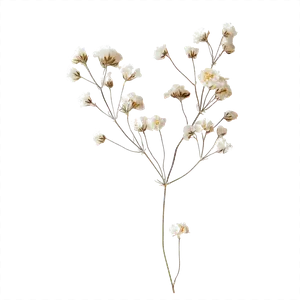
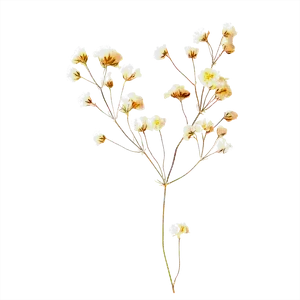
feat(design): usa mais imagens de flores já preparadas, não só a do Registrar
Só o specimen-pink aparecia (no card de Registrar); os outros 3
assets (tulip, leaf, specimen-cream) estavam no repo sem uso. Agora
cada tela de entrada de dado ganha um acento diferente: tulip em
Entradas, leaf em Investimentos, specimen-cream em Importar extrato —
mesmo tratamento visual do specimen-pink (canto superior direito,
rotacionado, drop-shadow), ajustado por aspect ratio pra não vazar do
card.

specimen-cream também foi realçado (saturação/contraste) porque a
cor original era quase idêntica ao fundo de papel e ficava invisível.

diff --git a/src/views/ImportarView.tsx b/src/views/ImportarView.tsx
@@ -5,6 +5,7 @@ import { findLikelyDuplicate } from "../model/statementImport/duplicates";
 import { CATEGORIES, PAYMENTS } from "../shared/catalog";
 import { formatBRL } from "../shared/format";
 import type { Expense, NewExpense, Payment } from "../model/types";
+import specimenCream from "../assets/specimen-cream.webp";
 
 interface ReviewRow extends ParsedRow {
   include: boolean;
@@ -80,9 +81,15 @@ export default function ImportarView({ existingExpenses, onImport, onDone }: Pro
 
       {!rows && (
         <section
-          className="rise flex flex-col items-center gap-3 rounded-card border border-dashed border-accent/50 bg-accent-soft/40 px-6 py-10 text-center"
+          className="rise relative flex flex-col items-center gap-3 overflow-hidden rounded-card border border-dashed border-accent/50 bg-accent-soft/40 px-6 py-10 text-center"
           style={{ animationDelay: "90ms" }}
         >
+          <img
+            src={specimenCream}
+            alt=""
+            aria-hidden="true"
+            className="pointer-events-none absolute -top-8 -right-4 w-[110px] rotate-[16deg] opacity-90 drop-shadow-[0_10px_14px_rgba(36,55,31,.22)]"
+          />
           <Upload size={26} strokeWidth={1.8} className="text-accent-ink" />
           <p className="text-[14px] text-ink-soft">
             Fatura do cartão ou extrato da conta, exportado em CSV.

diff --git a/src/views/InvestimentosView.tsx b/src/views/InvestimentosView.tsx
@@ -3,6 +3,7 @@ import { Plus, Trash2, Pencil, Check, X, Sprout } from "lucide-react";
 import AmountInput from "../components/AmountInput";
 import { formatBRL } from "../shared/format";
 import type { Investment, NewInvestment } from "../model/types";
+import leaf from "../assets/leaf.webp";
 
 interface IForm {
   id?: string;
@@ -61,7 +62,13 @@ export default function InvestimentosView({ investments, onAdd, onEdit, onRemove
       </div>
 
       {form ? (
-        <section className="rise rounded-card border border-line bg-surface p-4 shadow-card">
+        <section className="rise relative rounded-card border border-line bg-surface p-4 shadow-card">
+          <img
+            src={leaf}
+            alt=""
+            aria-hidden="true"
+            className="pointer-events-none absolute -top-4 right-3 h-[68px] w-auto rotate-[14deg] drop-shadow-[0_10px_14px_rgba(36,55,31,.28)]"
+          />
           <p className="mb-2 ml-0.5 font-display text-[11px] font-semibold uppercase tracking-[0.08em] text-muted">
             {form.id ? "Editar posição" : "Nova posição"}
           </p>

diff --git a/src/views/EntradasView.tsx b/src/views/EntradasView.tsx
@@ -3,6 +3,7 @@ import { Plus, Trash2, Check, X, TrendingUp } from "lucide-react";
 import AmountInput from "../components/AmountInput";
 import { formatBRL, formatDayLabel, todayISO } from "../shared/format";
 import type { Income, NewIncome } from "../model/types";
+import tulip from "../assets/tulip.webp";
 
 interface IForm {
   cents: number;
@@ -47,7 +48,13 @@ export default function EntradasView({ income, onAdd, onRemove }: Props) {
       </div>
 
       {form ? (
-        <section className="rise rounded-card border border-line bg-surface p-4 shadow-card">
+        <section className="rise relative rounded-card border border-line bg-surface p-4 shadow-card">
+          <img
+            src={tulip}
+            alt=""
+            aria-hidden="true"
+            className="pointer-events-none absolute -top-3 right-4 h-[76px] w-auto rotate-[-8deg] drop-shadow-[0_10px_14px_rgba(36,55,31,.28)]"
+          />
           <p className="mb-2 ml-0.5 font-display text-[11px] font-semibold uppercase tracking-[0.08em] text-muted">
             Nova entrada
           </p>
